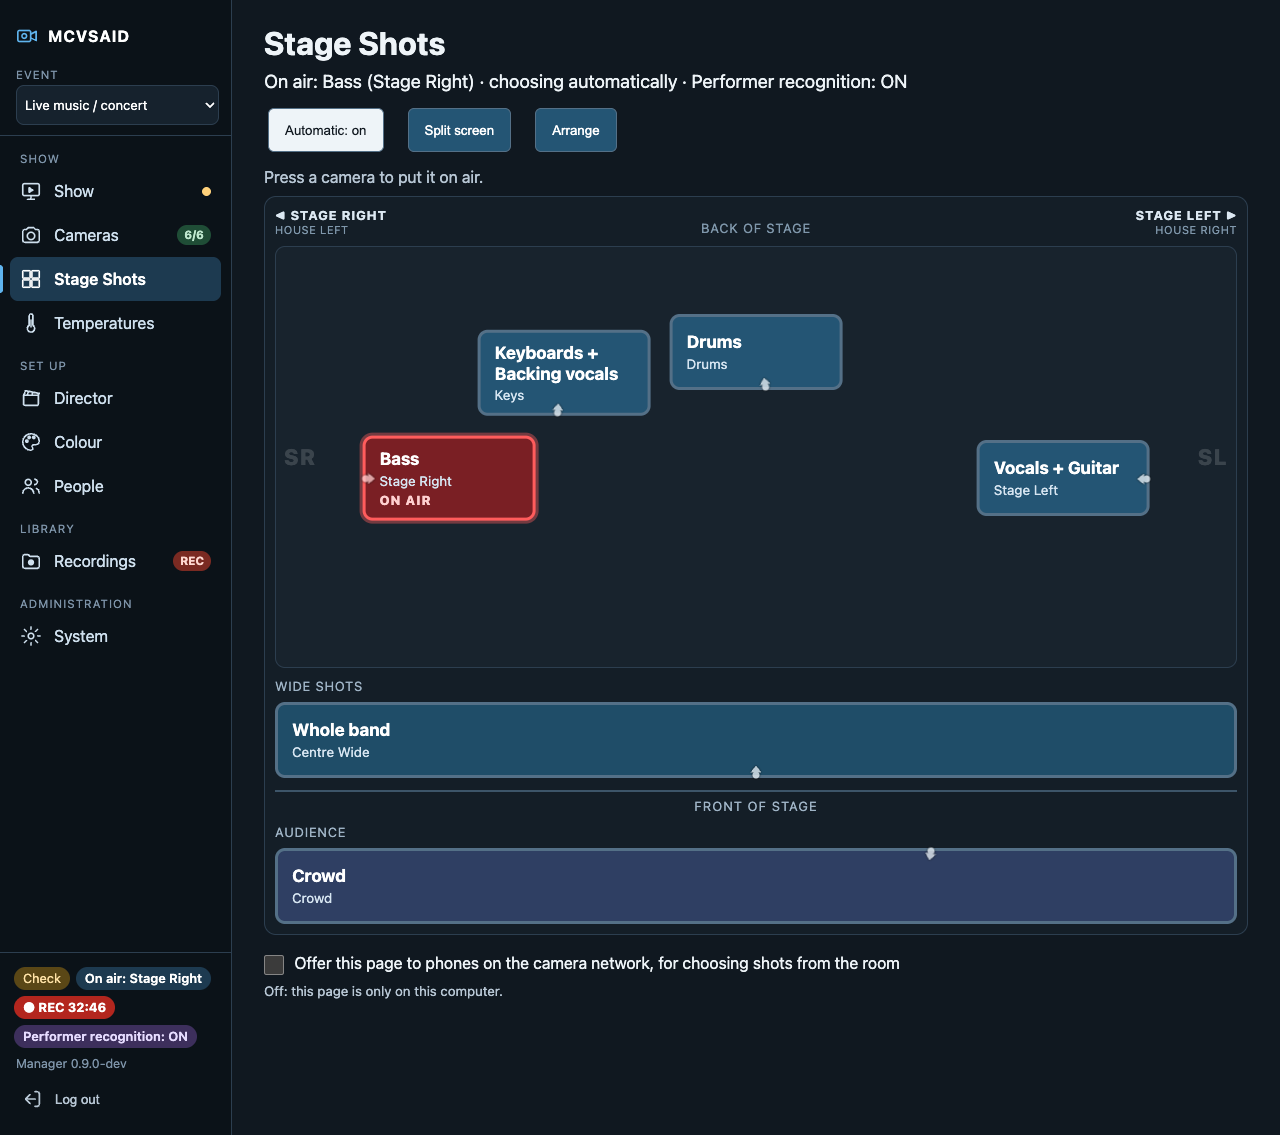
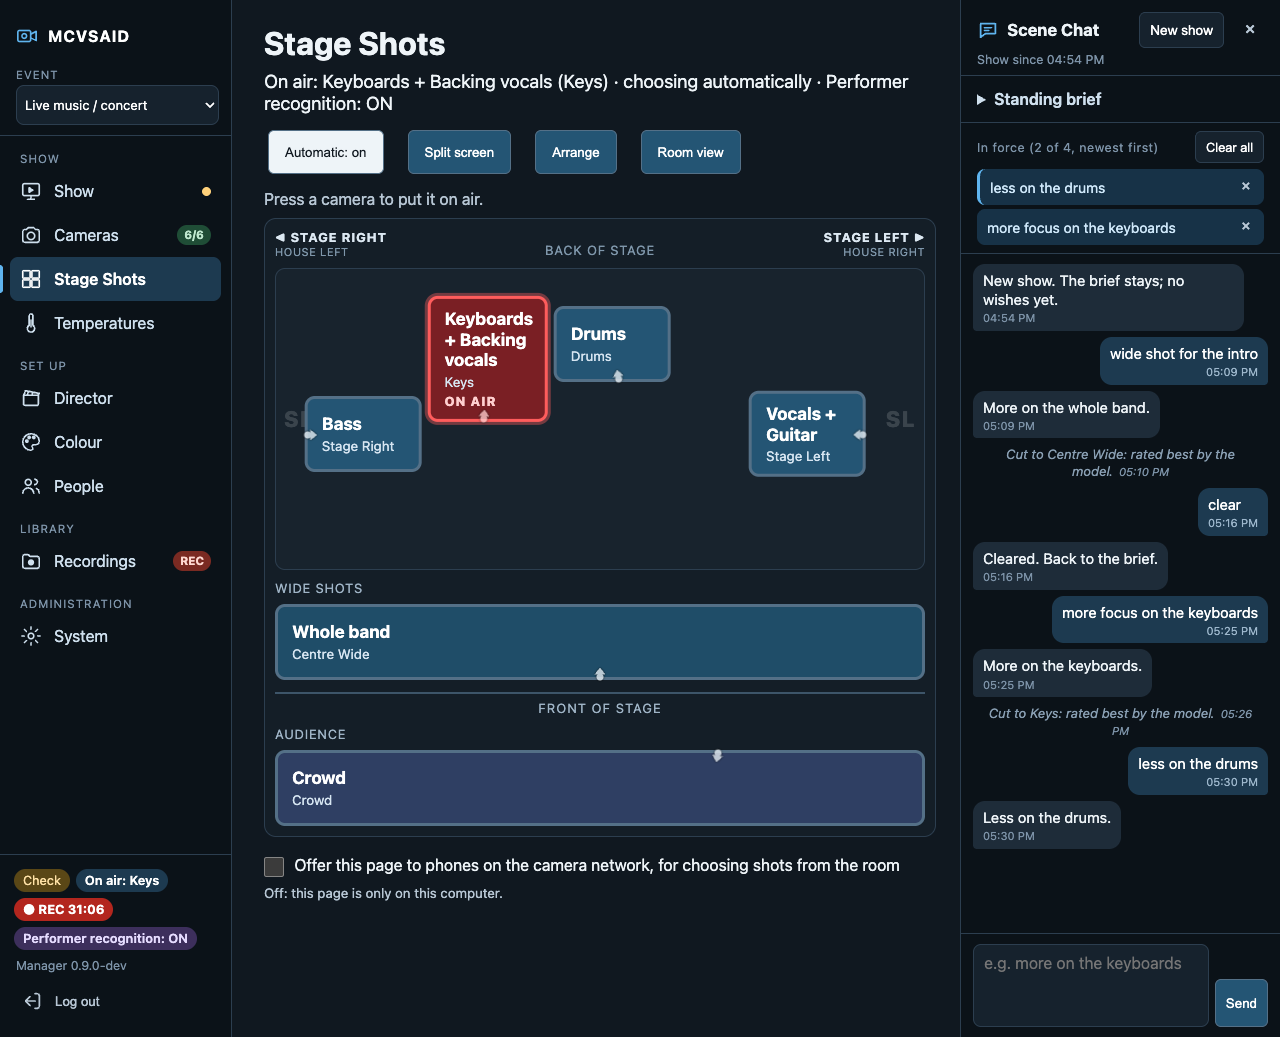
README from mcvsaid b4db0ac (showcase-preview)

diff --git a/README.md b/README.md
@@ -185,6 +185,18 @@ every cut lands cleanly. The director can also:
 
 Without a model it can rotate through the cameras on a timer, or leave the choice to a person.
 
+### Scene Chat: guiding the director through the show
+
+![Scene Chat beside the Show page: the wishes in force, the show's chat and the director's replies](docs/screenshots/24-scene-chat.png)
+
+Down the right of the Show and Stage Shots pages, **Scene Chat** feels like talking to the director. A **standing
+brief** says what holds all show; during it, type wishes as they come ("more focus on the keyboards", "less on the
+drums") and they go on top of the brief, newest first, for the model's next look. The director answers each at once
+("More on the keyboards.") with a canned reply, so the chat never costs the model any time, and notes what came of it
+("Cut to Keys: rated best by the model."). A newer wish about the same thing replaces the older, four at most are in
+force, each lasts 15 minutes unless cleared, and "clear" goes back to the brief. On a tablet it opens over the page,
+on a phone it is a sheet from the bottom; it needs Standard or Plus AI, and keeps the show's chat until New show.
+
 ## People: consenting performers, and nobody else
 
 ![People page: made-up performers enrolled under a contract, stars and the cameras that follow them](docs/screenshots/18-people.png)
